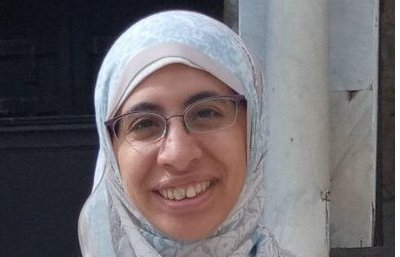
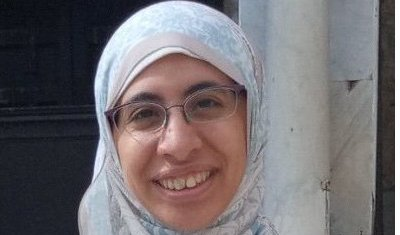
Adding Oluwabukola organizer image

diff --git a/index.html b/index.html
@@ -731,7 +731,7 @@
                         >
                             <div class="member">
                                 <img
-                                    src="assets/img/trainers/organizer-2.jpg"
+                                    src="assets/img/trainers/organizer-5.png"
                                     class="img-fluid"
                                     alt=""
                                 />
@@ -852,7 +852,7 @@
                                     <h4>Dr. Esther Odunayo Oduntan</h4>
                                     <span
                                         >Researcher and academia in Computer
-                                        Science, Federal Polytechnic Ilaro</span
+                                        Science, @Federal Polytechnic Ilaro</span
                                     >
                                     <p>
                                         She is a Chief Lecturer in the
